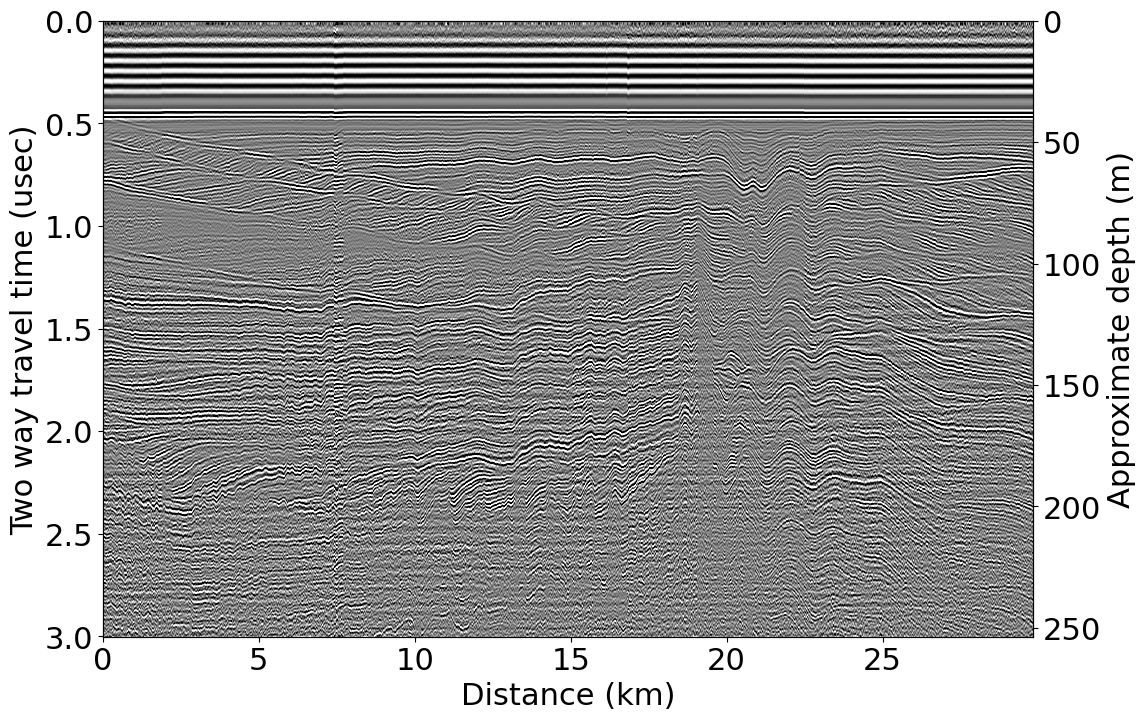
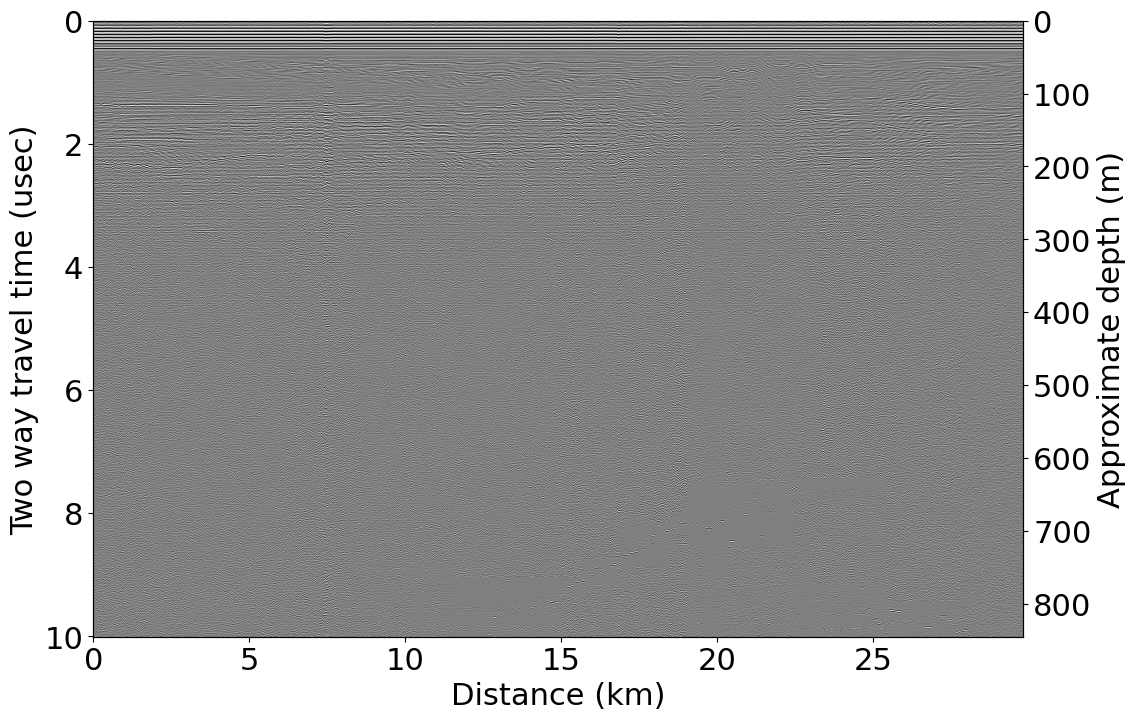
small figure changes
nothing important

diff --git a/Src/PulseEKKO/RDTesting.py b/Src/PulseEKKO/RDTesting.py
@@ -18,7 +18,7 @@ from lib.process import concat
 # Tipps und Tricks
 # 1/ Reading Files the date in the *hd must be in mm/dd/yyyy spontaneously this is save otherwise.
 #       find . -type f -name "*.hd" -exec sed -i.bak 's/2022-Jan-02/01\/02\/2022/g' {} +
-# changes this manually. 
+# changes this manually.
 # 2/ If only a few traces are in line, then horizontal stacking fails. Remove those lines.
 ##########################################################################
 
@@ -90,11 +90,11 @@ font = {'family' : 'normal',
         'size'   : 22}
 matplotlib.rc('font', **font)
 
-[im, xd, yd, x_range, clims] = plot_radargram(datm,x_range=(0, 3000), y_range=(0, 3000),return_plotinfo="True",xdat='dist',ydat='dual')
+[im, xd, yd, x_range, clims] = plot_radargram(datm,x_range=(0, 3000), y_range=(0, 10000),return_plotinfo="True",xdat='dist',ydat='dual')
 # plt.text(0,-5,'A')
 # plt.text(54,-5,'A\'')
 plt.savefig('../../Doc/Tex/Figures/PulseEkko/PE.png', bbox_inches='tight')
-#plt.show()
+plt.show()
 
 
 
